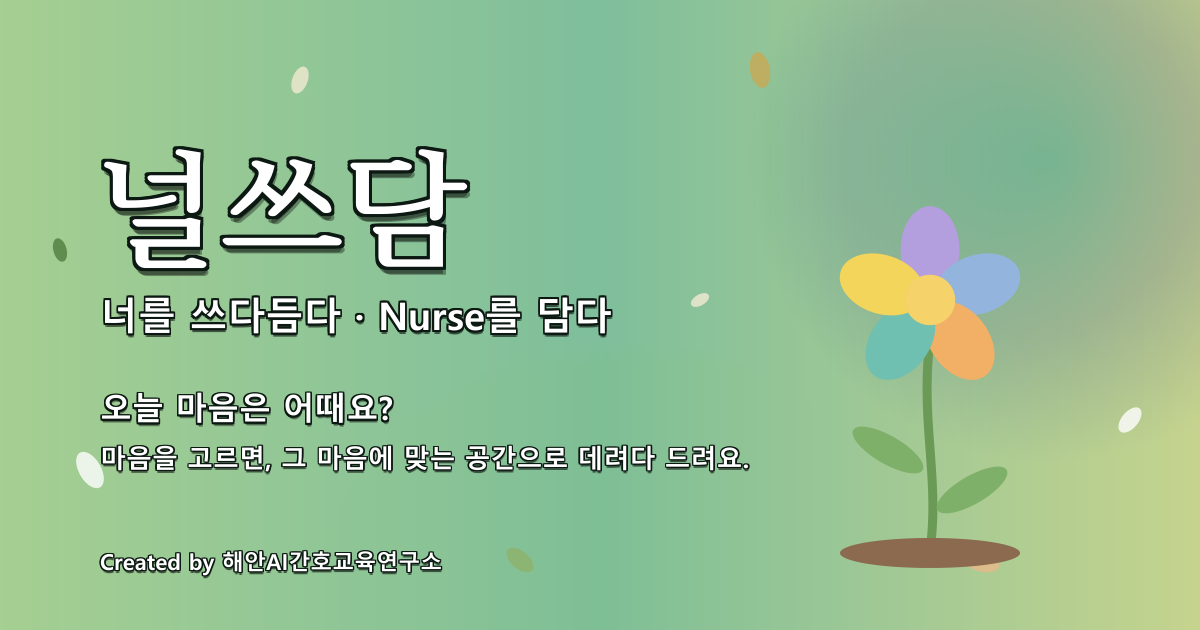
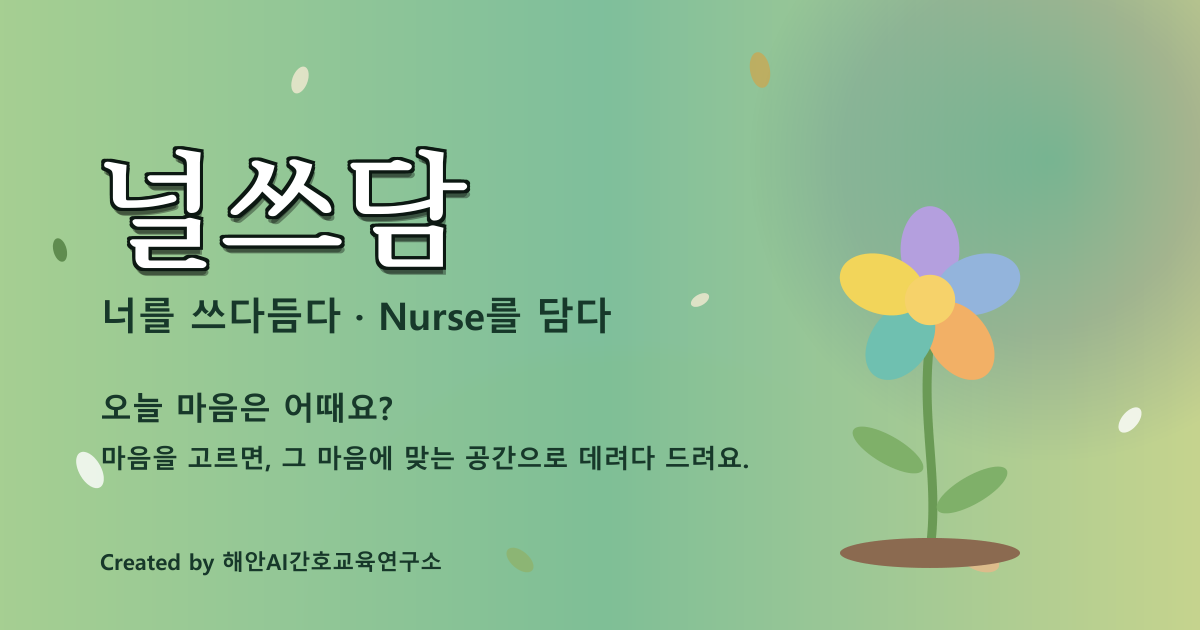
널쓰담 첫 화면: 작은 글씨는 그림자 없는 짙은 숲색, 큰 제목만 흰 글씨+테두리

Changed region(s): [[0.0617, 0.6032, 0.6167, 0.754], [0.0617, 0.4524, 0.5242, 0.5429], [0.0617, 0.8746, 0.37, 0.9349]]

diff --git a/nursedam.html b/nursedam.html
@@ -11,14 +11,14 @@
 <meta property="og:title" content="널쓰담 · 너를 쓰다듬다, Nurse를 담다">
 <meta property="og:description" content="오늘 마음은 어때요? 마음을 고르면, 그 마음에 맞는 공간으로 데려다 드려요.">
 <meta property="og:url" content="https://nursedam.vercel.app/">
-<meta property="og:image" content="https://nursedam.vercel.app/nursedam-og.png?v=3">
+<meta property="og:image" content="https://nursedam.vercel.app/nursedam-og.png?v=4">
 <meta property="og:image:width" content="1200">
 <meta property="og:image:height" content="630">
 <meta property="og:locale" content="ko_KR">
 <meta name="twitter:card" content="summary_large_image">
 <meta name="twitter:title" content="널쓰담 · 너를 쓰다듬다, Nurse를 담다">
 <meta name="twitter:description" content="오늘 마음은 어때요? 마음을 고르면, 그 마음에 맞는 공간으로 데려다 드려요.">
-<meta name="twitter:image" content="https://nursedam.vercel.app/nursedam-og.png?v=3">
+<meta name="twitter:image" content="https://nursedam.vercel.app/nursedam-og.png?v=4">
 <link rel="preconnect" href="https://fonts.googleapis.com">
 <link rel="preconnect" href="https://fonts.gstatic.com" crossorigin>
 <link href="https://fonts.googleapis.com/css2?family=Gowun+Batang:wght@400;700&family=Gowun+Dodum&display=swap" rel="stylesheet">
@@ -118,12 +118,12 @@ body.dark .hint{color:var(--soft)}
 textarea::placeholder{color:rgba(255,255,255,.8)}
 body:not(.dark) textarea::placeholder{color:#6a6180}
 .main-btn{color:#fff;background:#d9788a;text-shadow:0 1px 2px rgba(0,0,0,.25)}
-body.green #home .brand, body.green #home .tag, body.green #home .ask, body.green #home .link, body.green #home .credit{
-  color:#fff;
-  /* 사방 1px 짙은 테두리 + 아래로 떨어지는 그림자 */
-  text-shadow:1px 1px 0 rgba(12,24,18,.9), -1px 1px 0 rgba(12,24,18,.9), 1px -1px 0 rgba(12,24,18,.9), -1px -1px 0 rgba(12,24,18,.9),
-    0 2px 6px rgba(0,0,0,.6)}
+/* 작은 글씨: 그림자 없이 짙은 숲색 */
+body.green #home .tag, body.green #home .ask, body.green #home .link, body.green #home .credit{
+  color:#17382a; text-shadow:none}
+/* 큰 제목만: 흰 글씨 + 짙은 테두리 + 그림자 */
 body.green #home .brand{
+  color:#fff;
   text-shadow:2px 2px 0 rgba(12,24,18,.9), -2px 2px 0 rgba(12,24,18,.9), 2px -2px 0 rgba(12,24,18,.9), -2px -2px 0 rgba(12,24,18,.9),
     0 2px 0 rgba(12,24,18,.9), 0 -2px 0 rgba(12,24,18,.9), 2px 0 0 rgba(12,24,18,.9), -2px 0 0 rgba(12,24,18,.9), 0 4px 10px rgba(0,0,0,.55)}
 body.green .main-btn{background:#d9805a;box-shadow:0 6px 20px rgba(217,128,90,.35)}
